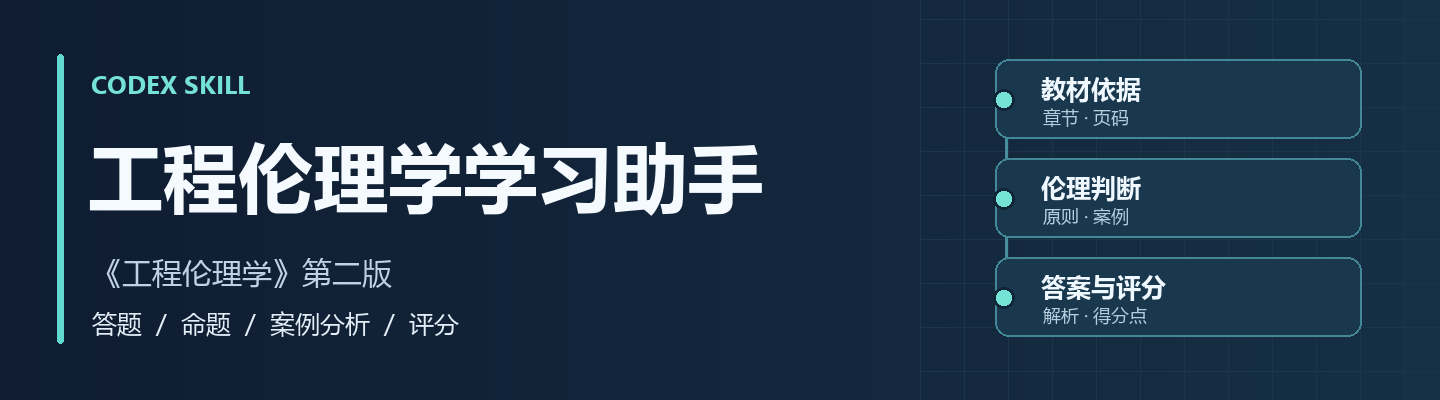
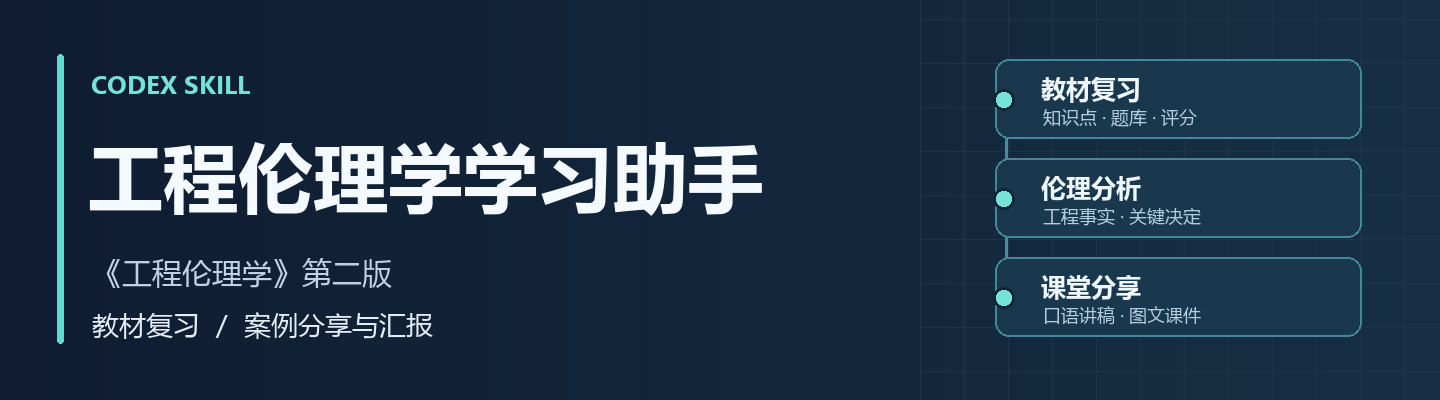
Add classroom case sharing to the engineering ethics study skill

diff --git a/README.md b/README.md
@@ -1,12 +1,12 @@
-![工程伦理学学习助手。教材依据、伦理判断、答题与评分。](assets/cover.png)
+![工程伦理学学习助手。教材复习、案例分析、课堂分享。](assets/cover.png)
 
 # 工程伦理学学习助手
 
-围绕《工程伦理学》第二版做中文**答题、原创命题、案例分析和分项评分**。知识点和答案附原书页码，使用带页书签的 Word 版时可定位到对应页。
+一个中文 Codex Skill，支持**教材复习**与**案例分享**。按《工程伦理学》第二版答题、出题和评分，引用原书页码。也可从课外真实案例出发，核对工程事实，完成伦理分析、讲稿和图文 PPT。
 
-[快速开始](#快速开始) · [使用示例](#使用示例) · [工作原理](#工作原理) · [教材与数据](#教材与数据) · [仓库结构](#仓库结构)
+[快速开始](#快速开始) · [使用示例](#使用示例) · [案例分享与汇报](#案例分享与汇报) · [工作原理](#工作原理) · [教材与数据](#教材与数据) · [仓库结构](#仓库结构)
 
-| 课程覆盖 | 知识点 | 案例 | 跨章主题 | 题库 |
+| 课程覆盖 | 知识点 | 教材案例 | 跨章主题 | 题库 |
 |:---:|:---:|:---:|:---:|:---:|
 | **8 章 39 节** | **91** | **50** | **12** | **74 道** |
 
@@ -41,6 +41,7 @@ python engineering-ethics-study/scripts/lookup.py --item EE-ORIG-06-05
 | 查清教材口径 | 实测能运行，工程就应当实施吗？ | 技术评估与社会评估的区别，以及原书第 216–219 页的依据 |
 | 比较两个案例 | 三鹿毒奶粉事件和三鹿庭审记录分别怎么分析？ | 第 5 章的人道主义视角，以及第 6 章的组织决策与召回视角 |
 | 自测与核分 | 出两道第 6 章的题，先给题目，交卷后再评分 | 题面、可核对的答案和逐项扣分依据 |
+| 分享课外案例 | 用我给的调查报告准备 7 分钟课堂分享 | 证据时间线、伦理分析、口语讲稿和逐页图解 |
 
 ### 查看一条带出处的判断
 
@@ -52,11 +53,25 @@ python engineering-ethics-study/scripts/lookup.py --item EE-ORIG-06-05
 python engineering-ethics-study/scripts/lookup.py --topic "实测能运行，项目就应当实施吗"
 ~~~
 
+## 案例分享与汇报
+
+从用户指定的教材案例、书外工程事件或已有课件出发。先核对调查原文与时间线，复原关键决定和当时可选的方案，再用相关伦理原则解释判断。整改写清执行岗位、验证证据和复核时机。
+
+~~~text
+用 $engineering-ethics-study 做一段 7 分钟的课外工程案例分享。
+请根据我提供的调查报告核对决策过程，写口语讲稿、
+逐页图文提纲和资料出处，并说明整改如何验收。
+~~~
+
+按需要生成课堂讲稿或课件。已有 PPT 时，可沿用确认过的模板，并核对图源、页序、备注和媒体。[案例分享指南](engineering-ethics-study/references/case-sharing.md)
+
 ## 工作原理
 
 1. 用节号、主题或案例名定位知识卡，确认题干要求及教材口径。
 2. 回查原书页。概念题核对定义和条件，案例题核对事实、相关方、备选措施及责任。
 3. 生成有依据的答案或练习，并把评分点落实到可判分的步骤。
+
+书外案例沿用伦理论证方法。案件事实引用调查材料，教材概念引用教材页码。讲稿和课件依据同一份证据记录。
 
 ## 教材与数据
 
@@ -80,9 +95,10 @@ python engineering-ethics-study/scripts/lookup.py --index "教材页索引.jsonl
 
 | 路径 | 用途 |
 | --- | --- |
-| [SKILL.md](engineering-ethics-study/SKILL.md) | 答题、出题、评分和案例分析规则 |
+| [SKILL.md](engineering-ethics-study/SKILL.md) | 教材复习和案例分享的统一入口 |
 | [教材知识地图](engineering-ethics-study/references/course-map.md) | 全书 39 节的范围和依据页 |
 | [题目与评分流程](engineering-ethics-study/references/question-workflows.md) | 检索方式、题库维护与阅卷 |
+| [案例分享指南](engineering-ethics-study/references/case-sharing.md) | 事实核验、伦理论证、讲述与交付检查 |
 | [检索脚本](engineering-ethics-study/scripts/lookup.py) | 查节、主题、案例、练习和题库答案 |
 
 冒烟测试覆盖章节、案例、问法、题面和答案定位。

diff --git a/engineering-ethics-study/references/case-sharing.md b/engineering-ethics-study/references/case-sharing.md
@@ -1,0 +1,26 @@
+# 工程伦理案例分享与课堂汇报
+
+面向课堂案例分享、分析报告、口语讲稿和 PPT。主题可来自教材、用户给出的材料或用户指定的真实工程事件。先从请求和已有材料确定主题、时长、受众和交付物。已有新版讲稿或课件时，以最新一稿和用户已确认的表述为起点。主题待定时，可以先确定检索、论证和汇报的方法。
+
+## 事实与决策
+
+- 教材案例可用 `--case` 找原书页与案例卡。书外真实案例从调查报告、技术资料、监管或司法原文查起，用可靠报道补充现场和处理经过。具体数字、图像和责任处理均记录来源、页码或章节。
+- 把每项关键主张放进事件时间线，注明当时可获得的信息、实际决定、造成的影响和待核事项。讲技术动作时区分发现、判断、计划和执行。
+- 选择一项确实存在行动空间的决策。说明谁负责、受到什么约束、有哪些替代方案，以及收益与风险分别落到谁身上。详细证据与伦理论证按 [研究与伦理论证](research-and-ethics.md) 核对。
+
+## 伦理判断与改进
+
+选与决策直接相关的原则，如公众安全、职业诚信、公平参与、伦理后果或角色责任。用规范要求、案例证据、判断理由和可行改进构成论证。使用教材观点时附原书页码，案件事实附其原始来源。结合知情、可预见性、职责和控制能力判断责任，涉及法律结论时核对适用时点及相应处理材料。
+
+后段说明已经核实的整改和进一步建议。每条建议写清要改变的环节、执行岗位、可验证的结果和复核时机。
+
+## 课堂讲述与图解
+
+- 按背景和正常安排、当时的决定与后果、伦理评价、改进及验收组织讲述。5 至 10 分钟为常见范围，按实际口播、媒体和转场计时。
+- 讲稿用自然中文，首次解释缩写。用一两个必要的引导句进入事件与工程安排。每页安排一个讲述功能，保留能讲清过程的事实。可用调查原图、横向时间轴、职责图、保护链或同一对象的前后对照。配图和排页参考 [讲述与视觉方法](storyboard-and-visuals.md)。
+- 原始资料标明出处，教学示意注明用途。使用视频或动图时记录实际媒体形态及播放检查范围。按 [交付检查](delivery-checklist.md) 核对主张、图注、页序、备注、链接及可编辑性。
+- 文字提纲、分析报告、讲稿和文件按用户要求交付。需要制作 PPT 时使用当前可用的演示文稿技能。修改已有课件时核对页序、版面、备注、母版及媒体，在副本上保留用户给定的版式、署名和已确认的表述。
+
+## 用法示例
+
+> 用 $engineering-ethics-study 做一段 7 分钟的课外工程案例分享。请根据我给的事故报告核对事件和决策，给出课堂讲稿、逐页图文提纲和资料出处，最后说明整改如何验收。

diff --git a/engineering-ethics-study/references/research-and-ethics.md b/engineering-ethics-study/references/research-and-ethics.md
@@ -1,0 +1,26 @@
+# 案例研究与伦理论证
+
+## 追溯证据与工程决定
+
+为关键主张记录事件时间、材料发布时间、具体事实、来源定位、核验状态、单位和适用范围。原始定位可用报告页码、章节、图号或视频时间码。核验状态可用已确认、当事方说法、存在争议或待查。引用后来的调查和制度时，对照决策发生时的条件和有效要求。
+
+沿着设备和程序、人员岗位、组织及监管查看信息和控制是怎样传递的。设备层查输入、判断、控制与后备保护。人员层查岗位要求、可见信息及接管条件。组织层查资源、验证、批准和监督。监管层查准入、报告、退出与监督。按来源用语标注直接原因、促成因素和仍待查的机制。
+
+从当时实际可选的做法中挑出有伦理影响的决定。写清决定者与约束，比较改变设计、暂停、加控制、继续等可行选项。逐项看安全与收益、风险分布、可验证性和执行成本。
+
+## 把理论用于证据
+
+| 角度 | 追问 |
+| --- | --- |
+| 义务与职业伦理 | 岗位对公众安全、专业诚信和风险说明有什么义务？现有保护变化需要什么验证与批准？ |
+| 后果与功利 | 每个方案对相关人群和环境的短期、长期影响是什么？分列数据、假设与证据支持的定性判断。 |
+| 公平、权利与参与 | 谁获益、谁担风险？受影响者有什么知情、表达、参与和救济机会？ |
+| 责任伦理 | 谁促成结果，岗位原有职责是什么，能否预见和控制，实际有哪些选择？法定责任以适用法律和核实的处理材料为据。 |
+
+每条论证写明评价标准、对应事实、判断理由和改进。选与决定有关的角度，允许同一案例中岗位问题和组织机制共同影响结果。
+
+## 精度与验收
+
+- 原始记载若是“发出指令，执行未确认”，讲稿和图注应保留这个状态。保留涉及否定、时序、概率和控制条件的限定词。
+- 事实支持历史整改的具体动作时，写清谁在何时改了什么，验证材料覆盖到哪里。后续建议逐条给出执行者、验证证据和复核时机。
+- 来源之间有分歧时，记录相关陈述、证据能力和暂定结论。引用教材概念、解释图、现场证据及法律文件时附各自的出处。

diff --git a/engineering-ethics-study/references/storyboard-and-visuals.md b/engineering-ethics-study/references/storyboard-and-visuals.md
@@ -1,0 +1,24 @@
+# 讲述与视觉方法
+
+## 安排讲述和页面
+
+从工程情境和正常工作安排进入。接着说明实际决定、保护变化和后果，用一个具体判断把事实过渡到伦理评价，最后讲整改和效果验证。背景、过程与原因占充足篇幅，伦理部分有可听懂的论证，素材播放、转场与停顿计入总时长。用口播量和实际媒体时长决定页数。
+
+分析报告保留完整证据与限制，讲稿补足口语与衔接，页面承担观众需要看见的事实和关系。图、标注与正文共同讲清每页的要点。已有课件时沿用用户确认的模板，导航和页脚随页序更新。
+
+## 让图解释关系
+
+| 讲述任务 | 可选图解 |
+| --- | --- |
+| 时间与现场 | 左侧放可核实的原图和近旁图源，右侧按从左向右的时间轴配动作或位置图。同一时刻的动作可分轨，按事件等距排版时注明时间尺度。 |
+| 机制与失效 | 画出信息输入、判断、控制动作和后备保护，标出失效节点以及它影响的动作。 |
+| 岗位与监督 | 用角色、能控制的动作和监督关系构图，标清每条连线的含义。 |
+| 改进前后 | 保持同一对象、单位和图形结构，标出保护变化、负责岗位和验证方式。 |
+
+保留原图有用的图号和位置标识。依据证据画教学示意，引用时写清类别及精度。专业缩写首次解释。优先使用易读文字、清晰连线和可编辑的图形，突出决定、条件和结果。
+
+## 图片与媒体
+
+核对照片、图表和视频的作者、拍摄或发布时间、资料出处和对应事件。给调查复原、教学示意、现场资料等标明类型。现场片段适合在交代背景后、讲机制与时间线前播放。选择直接服务于讲述的片段，把额外摘录放在备注或资料页。
+
+明确实际媒体是链接、静态封面、GIF 还是嵌入视频。实际查验播放的首尾、声音、切换、循环及所需的离线兼容性，并在交付中表明测试覆盖范围。

diff --git a/engineering-ethics-study/references/delivery-checklist.md b/engineering-ethics-study/references/delivery-checklist.md
@@ -1,0 +1,20 @@
+# 案例分享交付检查
+
+## 案例与论证
+
+- [ ] 让受众在开场了解地点、参与者、任务和正常安排。尽早进入影响后果的关键决定和工程动作。
+- [ ] 核对数字、单位、时间、人物、图像与来源定位。计划、执行、影响和不确定性准确传达。
+- [ ] 至少完成一条由评价标准和案例事实支持的伦理判断，说明岗位条件、控制能力和组织责任。
+- [ ] 讲清历史整改和后续建议。给出执行岗位、验收证据和复核时机。
+
+## 讲述与图解
+
+- [ ] 口播首次说明技术缩写，准确表达已有证据的限制，页与页有衔接。口播、媒体和过渡符合约定时长。
+- [ ] 图源靠近图片，标明原始资料或教学示意。时间轴和连接线有清晰含义，对照图保持同一对象和单位。
+- [ ] 逐页检查渲染画面和投影可读性。按要求验证可编辑性、文件打开和媒体放映，并说明实际验证的范围。
+
+## 整套材料
+
+- [ ] 核对封面、母版、页眉页脚、结束页、隐藏页和备注。保留用户确认的模板、署名和口语改稿。
+- [ ] 增删或移动页面后，复核导航、交叉引用、页码、图注、参考链接和讲稿页序。
+- [ ] 检查片段首尾、字幕和声音，确认正式调查后有更正的内容已正确表述。供分享的文件按用户要求选取。
